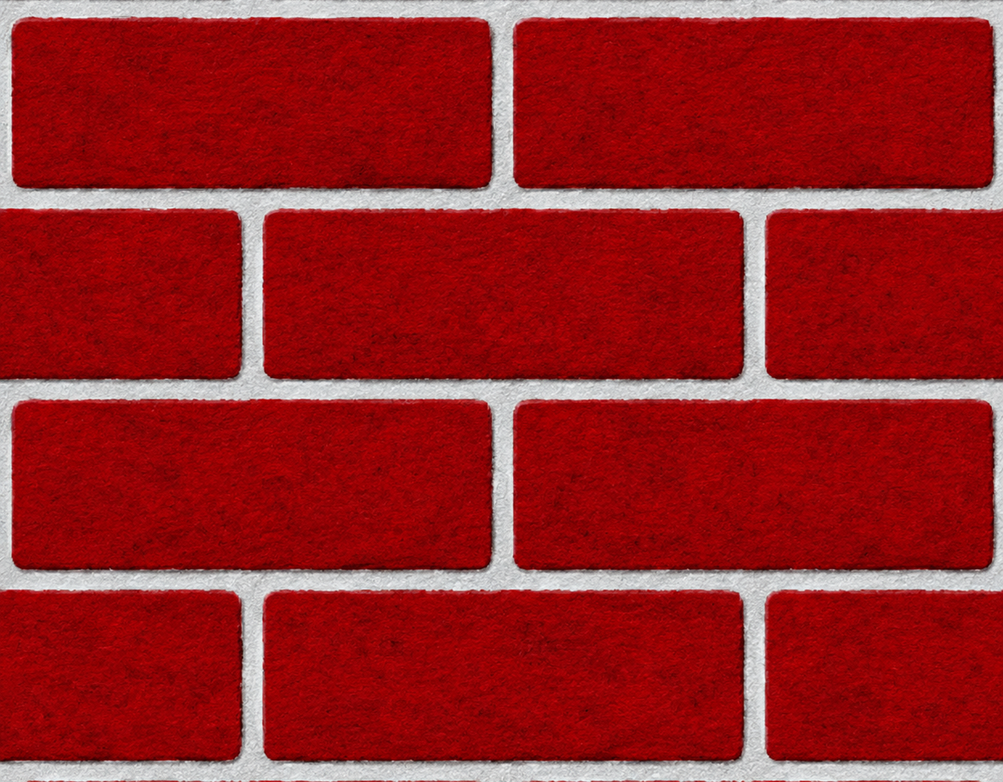
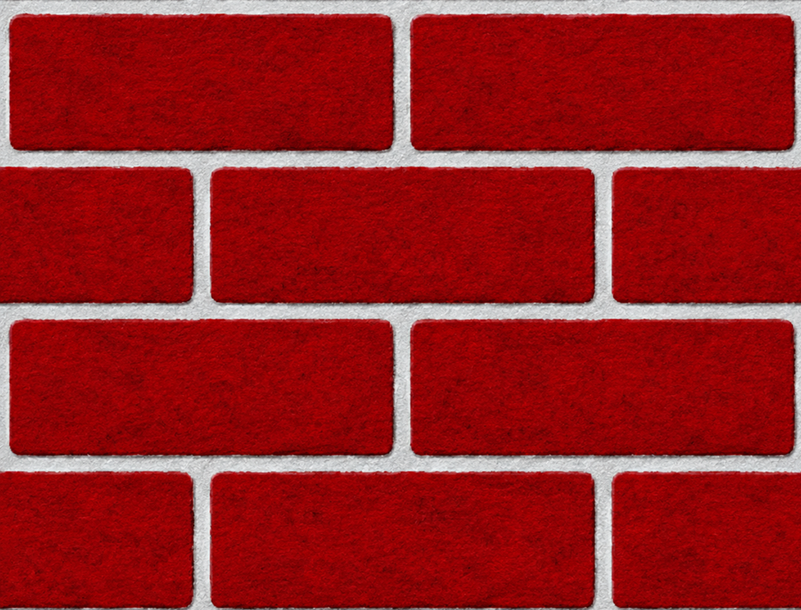
Smile flutuante giratório adicionado utilizando a esfera já existente no trabalho base.

diff --git a/src/main.cpp b/src/main.cpp
@@ -344,9 +344,10 @@ int main(int argc, char *argv[])
     //
     LoadShadersFromFiles();
 
-    LoadTextureImage(FindFile("data/parede.png").c_str());
-    LoadTextureImage(FindFile("assets/sand.png").c_str());
-    LoadTextureImage(FindFile("assets/teto.png").c_str());
+    LoadTextureImage(FindFile("data/parede.png").c_str());  // TextureImage0
+    LoadTextureImage(FindFile("assets/sand.png").c_str());  // TextureImage1
+    LoadTextureImage(FindFile("assets/teto.png").c_str());  // TextureImage2
+    LoadTextureImage(FindFile("assets/smile.png").c_str()); // TextureImage3
 
     // Construímos apenas o chão/grama.
     std::string plane_path = FindFile("data/plane.obj");
@@ -354,6 +355,13 @@ int main(int argc, char *argv[])
 
     ComputeNormals(&planemodel);
     BuildTrianglesAndAddToVirtualScene(&planemodel);
+
+    // Usa a esfera do trabalho base
+    std::string sphere_path = FindFile("data/sphere.obj");
+    ObjModel spheremodel(sphere_path.c_str());
+
+    ComputeNormals(&spheremodel);
+    BuildTrianglesAndAddToVirtualScene(&spheremodel);
 
     // Constrói o cubo usado para as paredes do labirinto
     BuildCubeAndAddToVirtualScene(1.0f, "wall_cube");
@@ -568,6 +576,7 @@ int main(int argc, char *argv[])
         glUniformMatrix4fv(g_view_uniform, 1, GL_FALSE, glm::value_ptr(view));
         glUniformMatrix4fv(g_projection_uniform, 1, GL_FALSE, glm::value_ptr(projection));
 
+#define SPHERE 0
 #define PLANE 2
 #define WALL 3
 #define TETO 4
@@ -585,6 +594,27 @@ int main(int argc, char *argv[])
             glUniform1f(g_texture_repeat_uniform, mazeW);
 
         DrawVirtualObject("the_plane");
+
+        // Esfera dentro do labirinto
+        int sphereRow = 2;
+        int sphereCol = 2;
+
+        float sphereX = (sphereCol - mazeW / 2.0f + 0.5f) * cellSize;
+        float sphereZ = (sphereRow - mazeH / 2.0f + 0.5f) * cellSize;
+
+        float sphereScale = 0.2f * cellSize;
+
+        model =
+            Matrix_Translate(
+                sphereX,
+                g_GroundY + 0.4f,
+                sphereZ) *
+            Matrix_Rotate_Y((float)glfwGetTime()) * Matrix_Scale(sphereScale, sphereScale, sphereScale);
+
+        glUniformMatrix4fv(g_model_uniform, 1, GL_FALSE, glm::value_ptr(model));
+        glUniform1i(g_object_id_uniform, SPHERE);
+
+        DrawVirtualObject("the_sphere");
 
         // Teto
         glDisable(GL_CULL_FACE);
@@ -949,6 +979,7 @@ void LoadShadersFromFiles()
     glUniform1i(glGetUniformLocation(g_GpuProgramID, "TextureImage0"), 0);
     glUniform1i(glGetUniformLocation(g_GpuProgramID, "TextureImage1"), 1);
     glUniform1i(glGetUniformLocation(g_GpuProgramID, "TextureImage2"), 2);
+    glUniform1i(glGetUniformLocation(g_GpuProgramID, "TextureImage3"), 3);
     g_texture_repeat_uniform = glGetUniformLocation(g_GpuProgramID, "TextureRepeat");
     glUseProgram(0);
 }
